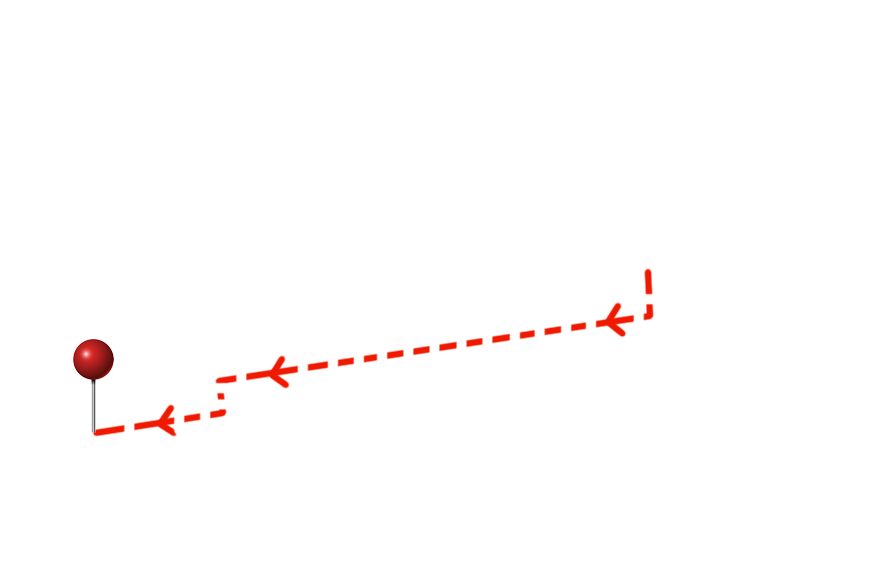
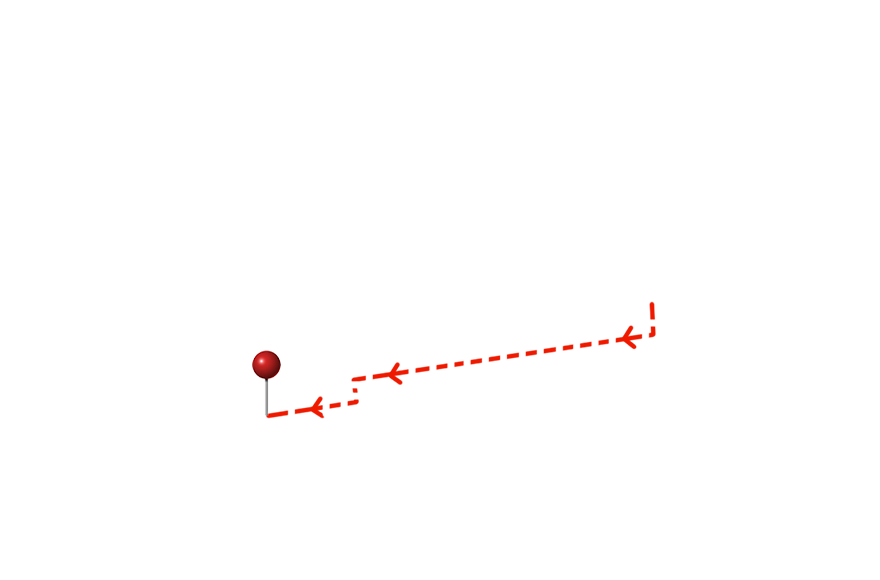
fix routeImgs, Move__Avatar__container

Changed region(s): [[0.2455, 0.4655, 0.767, 0.7448], [0.0614, 0.5586, 0.2455, 0.7759]]

diff --git a/web-app/src/assets/styles/index.sass b/web-app/src/assets/styles/index.sass
@@ -365,9 +365,9 @@ $member-height-inline: 24px
 .Move__Avatar__container
   z-index: 100
   position: absolute
-  bottom: 55vh
-  left: -15vw
-  width: 57vw
+  bottom: 20vh
+  left: 0
+  width: 65vw
 
 .NavigationZ
   position: relative
